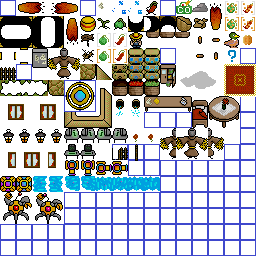
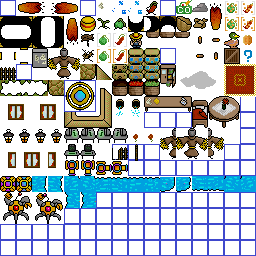
des bg

Changed region(s): [[0.125, 0.6875, 1.0, 0.8125], [0.875, 0.1875, 1.0, 0.25]]

diff --git a/Scripts_Draw.py b/Scripts_Draw.py
@@ -12,6 +12,8 @@ class Draw:
         self.scenes = []
         self.items = None
         self.keur = None
+        self.oldDay = 1
+        self.font2 = pygame.font.SysFont("res/Links_awakening_font.ttf", 12)
 
     def update(self):
         self.window.screen.fill((0, 0, 0))
@@ -44,11 +46,18 @@ class Draw:
                 item.draw(self.window.screen)
                 img = self.window.font.render(str(item.quantity), False, (224, 224, 224))
                 self.window.screen.blit(img, (item.position.x - 14, 131))
+            img2 = self.font2.render("Jour:" + str(self.player.nbJour), False, (224, 224, 224))
+            self.window.screen.blit(img2, (65, 132))
         else:
             for item in self.items.itemLegumes:
                 item.draw(self.window.screen)
                 img = self.window.font.render(str(item.quantity), False, (224, 224, 224))
                 self.window.screen.blit(img, (item.position.x - 14, 131))
+            img2 = self.font2.render("Nuit:" + str(self.player.nbJour), False, (224, 224, 224))
+            self.window.screen.blit(img2, (65, 132))
+
+
+
         self.keur.draw(self.window.screen)
         self.pognon.draw(self.window.screen)
         img = self.window.font.render(str(self.pognon.pognon), False, (224, 224, 224))
@@ -98,7 +107,19 @@ class Draw:
         #                radius -= 4
         
         #self.window.window.blit(mask, (0,0), special_flags = pygame.BLEND_MULT)
-        
+
+        #  img = self.window.font.render(str("test"), True, (224, 224, 224))
+        # self.window.screen.blit(img, (10, 10))
+        # print(self.oldDay)
+        # print("-")
+        # print(self.player.nbJour)
+
+        # if self.oldDay != self.player.nbJour :
+        #     img = self.window.font.render(str("test"), True, (224, 224, 224))
+        #     self.window.screen.blit(img, (10, 10))
+        #     self.oldDay == self.player.nbJour
+        #     self.oldDay += 1 
+
         pygame.display.update()
 
         # pygame.display.flip()

diff --git a/Scripts_Attack.py b/Scripts_Attack.py
@@ -9,6 +9,7 @@ import Utils_ColliderBox as ColliderBox
 import Utils_Size as Size
 import Entities_Inventory as Inventory
 import Entities_Item as Item
+import time
 
 class Attack:
     def __init__(self):
@@ -68,7 +69,7 @@ class Attack:
                                     if self.player.Rotation == Rotation.Rotation.SOUTH:
                                         self.player.position.y -= 16
                                     if self.player.life <= 0:
-                                        self.player.nbJour += 1
+                                        self.player.nbJour = 1
                                         self.inventory.IsGraines = True
                                         self.__purge = False
                                         tmparray = []
@@ -80,8 +81,18 @@ class Attack:
                                         for scene in self.scenes:
                                             for plante in scene.plantes:
                                                 plante.state = Plante.PlanteState.FRUIT
+                                        self.pognon.pognon = 0
+                                        for graine in self.inventory.itemGraines:
+                                            graine.quantity = 0
+                                        for legume in self.inventory.itemLegumes:
+                                            legume.quantity = 0
                                         self.player.life = 3
                                         self.keur.size.w = 24
+
+                                        # for scene in self.scenes:
+                                        #     if scene.state == True: # la scene en cours
+                                        #         scene.ambiant(255,255,255)
+
                                         self.scenes[2].state = True
                                         self.player.position = Position.Position(16, 64)
 

diff --git a/Scene_1.py b/Scene_1.py
@@ -43,24 +43,24 @@ def createScene1(tileTexture, assetTexture):
             tiles.append(tile)
 
     assetmap = [
-         0, 21,   0, 136,  0,   0,   0,  0,  0,  0,
-         0,  0,   0,   0,  0,   0,   0,  0, 21,  0,
-        64, 64, 144, 146,  0, 144, 146, 64, 64, 64,
-         0,  0, 160, 162, 26, 160, 162,  0,  62,  0,
-         0,  0,   0,   0,  0,   0,   0,136,  0,  0,
-        136,  0, 128,   0,  0,  37,   0,  0,  0,  0,
-         0,  0,   0,   0,  0,   0,   0,  0,136,  0,
-         0,  0,   0,   0,  0,   0,   0,  0,  0,  0,
+         0, 21,   0, 136,  0,   0,   0,  0,  0,  196,
+         0,  0,   0,   0,  0,   0,   0,  0, 21,  196,
+        64, 64, 144, 146,  0, 144, 146, 64, 64, 196,
+        62, 62, 160, 162, 26, 160, 162,  0,  63,  196,
+        62, 62,   0,   0,  0,   0,   0,0,  0,  196,
+        62,  0, 128,   0,  0,  37,   0,  0,  0,  196,
+        62,  0,   0,   0,  0,   0,   0,  0,136,  196,
+        62,  0,   0,   0,  0,   0,   0,  0,  0,  196,
     ]
     assetCollider = [
-        0, 0, 0, 0, 0, 0, 0, 0, 0, 0,
-        0, 0, 0, 0, 0, 0, 0, 0, 0, 0,
+        0, 0, 0, 0, 0, 0, 0, 0, 0, 1,
+        0, 0, 0, 0, 0, 0, 0, 0, 0, 1,
         1, 1, 0, 0, 0, 0, 0, 1, 1, 1,
-        0, 0, 0, 0, 0, 0, 0, 0, 0, 0,
-        0, 0, 0, 0, 0, 0, 0, 0, 0, 0,
-        0, 0, 1, 0, 0, 1, 0, 0, 0, 0,
-        0, 0, 0, 0, 0, 0, 0, 0, 0, 0,
-        0, 0, 0, 0, 0, 0, 0, 0, 0, 0,
+        1, 1, 0, 0, 0, 0, 0, 0, 0, 1,
+        1, 1, 0, 0, 0, 0, 0, 0, 0, 1,
+        1, 0, 1, 0, 0, 1, 0, 0, 0, 1,
+        1, 0, 0, 0, 0, 0, 0, 0, 0, 1,
+        1, 0, 0, 0, 0, 0, 0, 0, 0, 1,
     ]
     assets = []
     for i in range(0, len(assetmap)):

diff --git a/Main.py b/Main.py
@@ -44,6 +44,7 @@ import pygame
 
 # init
 pygame.init()
+pygame.display.set_caption('Sweet Nightmare')
 window = Window.Window()
 t1 = pygame.time.get_ticks()
 t2 = 0.0
@@ -265,7 +266,7 @@ while window.open:
     dynLight.update()
     # ambiant.update()
     draw.update()
-    # music.update()
+    music.update()
     warpScript.update()
     sleep.update()
     frameCounter.update()

diff --git a/Utils_DungeonGenScene.py b/Utils_DungeonGenScene.py
@@ -22,7 +22,7 @@ def createDungeonScenes(player, scenes, tileTexture, assetTexture, ennemyTexture
                  [0, 0, 0, 0, 0],
                  [0, 0, 0, 0, 0],
                  [0, 0, 0, 0, 0]]
-    sceneId = 5
+    sceneId = 6
     for x in range(0, 5):
         for y in range(0, 5):
             if dungeonMatrix[x][y].State == DungeonGen.CellState.OPEN:
